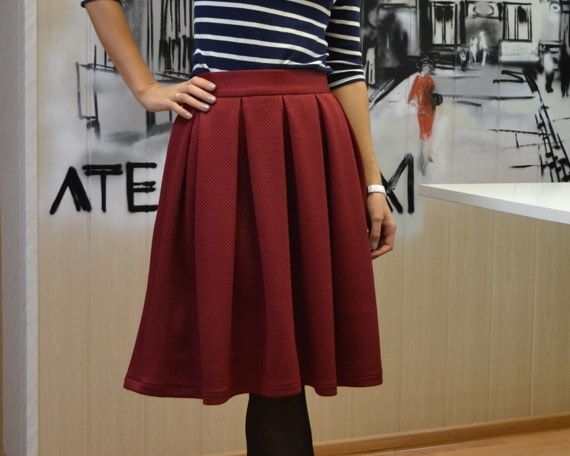
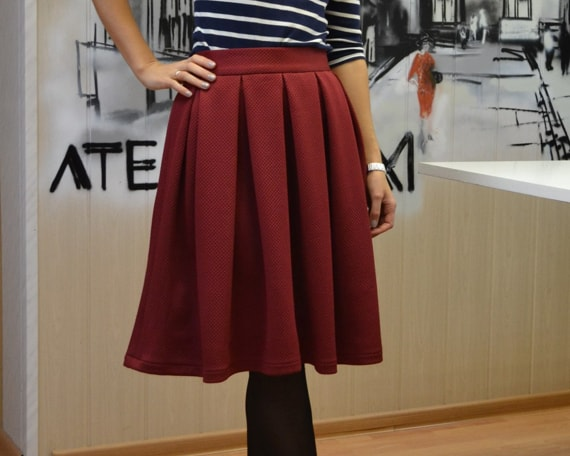
Заменены фотки некоторых курсов, поправлен адрес, поправлена карта  в курсе

diff --git a/courses/course-one.html b/courses/course-one.html
@@ -49,15 +49,18 @@
 
 					<div class="header_contacts">
 						<ul>
-							<li><p class="header_small">Услуги ателье или запись на курсы:</p></li>
+							<li><p class="header_small_above">Услуги ателье или запись на курсы:</p></li>
 							<li><p class="phone">+7 (903) 692-79-71</p></li>
 							<li>atelierium@yandex.ru</li>
 						</ul>
 					</div>
 
 					<div class="header_adress">
-						<li><p class="header_small">Мы находимся:</p></li>
-						<li>в Ярославле на Некрасова 41/37, в&nbsp;офисе 345 («Североход», 3-й этаж)</li>
+						<ul>
+							<li><p class="adress">Ярославль, Некрасова 41/37, офис 304</p></li>
+							<li><p class="header_small_under">(БЦ «Североход», офисное здание № 2,</p></li>
+							<li><p class="header_small_under">вход со стороны ул. Некрасова 3-й этаж)</p></li>
+						</ul>
 					</div>
 				</div>
 			</div>
@@ -124,7 +127,7 @@
 							</p>
 
 							<p>
-								На данном курсе учащиеся получат базовые навыки швейного и конструкторского  мастерства. За время обучения вы научитесь правильно снимать мерки с фигуры, правильно выбирать прибавки на свободу при конструировании изделий, изучите основные технологические узлы при обработке изделий. По итогу курса у Вас будут три сшитые вами изделия — юбка, платье и блуза.
+								На данном курсе учащиеся получат базовые навыки швейного и конструкторского  мастерства. За время обучения вы научитесь правильно снимать мерки с фигуры, правильно выбирать прибавки на свободу при конструировании изделий, изучите основные технологические узлы при обработке изделий. По итогу курса у вас будут три сшитые вами изделия — юбка, платье и блуза.
 							</p>
 
 							<table class="table-course">
@@ -165,7 +168,7 @@
 							<!-- Карта -->
 
 							<p>
-								Занятия по этому курсу проходят по адресу: улица Некрасова 41/37, офис 345 (бизнес-центр «Североход», 3-й этаж)
+								Занятия по этому курсу проходят по адресу: улица Некрасова, 41/37, офис 304 (БЦ «Североход», офисное здание № 2, вход со стороны ул. Некрасова 3-й этаж)
 							</p><br>
 
 							<div id="map">

diff --git a/courses/course-five.html b/courses/course-five.html
@@ -49,15 +49,18 @@
 
 					<div class="header_contacts">
 						<ul>
-							<li><p class="header_small">Услуги ателье или запись на курсы:</p></li>
+							<li><p class="header_small_above">Услуги ателье или запись на курсы:</p></li>
 							<li><p class="phone">+7 (903) 692-79-71</p></li>
 							<li>atelierium@yandex.ru</li>
 						</ul>
 					</div>
 
 					<div class="header_adress">
-						<li><p class="header_small">Мы находимся:</p></li>
-						<li>в Ярославле на Некрасова 41/37, в&nbsp;офисе 345 («Североход», 3-й этаж)</li>
+						<ul>
+							<li><p class="adress">Ярославль, Некрасова 41/37, офис 304</p></li>
+							<li><p class="header_small_under">(БЦ «Североход», офисное здание № 2,</p></li>
+							<li><p class="header_small_under">вход со стороны ул. Некрасова 3-й этаж)</p></li>
+						</ul>
 					</div>
 				</div>
 			</div>
@@ -146,11 +149,11 @@
 							<!-- Карта -->
 
 							<p>
-								Занятия по этому курсу проходят по адресу: улица Некрасова 41/37, офис 345 (бизнес-центр «Североход», 3-й этаж)
+								Занятия по этому курсу проходят по адресу: улица Майорова, 8А, 1 этаж
 							</p><br>
 
 							<div id="map">
-								<script type="text/javascript" charset="utf-8" src="https://api-maps.yandex.ru/services/constructor/1.0/js/?sid=HYCU-XZVNMVQuzG_V8xKoF1DiBNvdAYI&width=550&height=430&lang=ru_RU&sourceType=constructor">
+								<script type="text/javascript" charset="utf-8" src="https://api-maps.yandex.ru/services/constructor/1.0/js/?sid=zr-VuhEAn43rfLt3QUoNxF1zc-37c48L&width=550&height=430&lang=ru_RU&sourceType=constructor">
 								</script>
 							</div>
 						</div>

diff --git a/courses/course-six.html b/courses/course-six.html
@@ -49,15 +49,18 @@
 
 					<div class="header_contacts">
 						<ul>
-							<li><p class="header_small">Услуги ателье или запись на курсы:</p></li>
+							<li><p class="header_small_above">Услуги ателье или запись на курсы:</p></li>
 							<li><p class="phone">+7 (903) 692-79-71</p></li>
 							<li>atelierium@yandex.ru</li>
 						</ul>
 					</div>
 
 					<div class="header_adress">
-						<li><p class="header_small">Мы находимся:</p></li>
-						<li>в Ярославле на Некрасова 41/37, в&nbsp;офисе 345 («Североход», 3-й этаж)</li>
+						<ul>
+							<li><p class="adress">Ярославль, Некрасова 41/37, офис 304</p></li>
+							<li><p class="header_small_under">(БЦ «Североход», офисное здание № 2,</p></li>
+							<li><p class="header_small_under">вход со стороны ул. Некрасова 3-й этаж)</p></li>
+						</ul>
 					</div>
 				</div>
 			</div>
@@ -148,11 +151,11 @@
 							<!-- Карта -->
 
 							<p>
-								Занятия по этому курсу проходят по адресу: улица Некрасова 41/37, офис 345 (бизнес-центр «Североход», 3-й этаж)
+								Занятия по этому курсу проходят по адресу: улица Майорова, 8А, 1 этаж
 							</p><br>
 
 							<div id="map">
-								<script type="text/javascript" charset="utf-8" src="https://api-maps.yandex.ru/services/constructor/1.0/js/?sid=HYCU-XZVNMVQuzG_V8xKoF1DiBNvdAYI&width=550&height=430&lang=ru_RU&sourceType=constructor">
+								<script type="text/javascript" charset="utf-8" src="https://api-maps.yandex.ru/services/constructor/1.0/js/?sid=zr-VuhEAn43rfLt3QUoNxF1zc-37c48L&width=550&height=430&lang=ru_RU&sourceType=constructor">
 								</script>
 							</div>
 						</div>

diff --git a/index.html b/index.html
@@ -48,20 +48,28 @@
 				<div class="thirty-padding">
 
 					<div class="header_logo">
-						<a href="index.html"><img class="logo" src="img/logo_two@2x.png" width="243px" height="76px"></a>
+						<a href="index.html"><img class="logo" src="img/logo_two@2x.png" width="243px"></a>
 					</div>
 
 					<div class="header_contacts">
 						<ul>
-							<li><p class="header_small">Услуги ателье или запись на курсы:</p></li>
+							<li><p class="header_small_above">Услуги ателье или запись на курсы:</p></li>
 							<li><p class="phone">+7 (903) 692-79-71</p></li>
 							<li>atelierium@yandex.ru</li>
 						</ul>
 					</div>
 
-					<div class="header_adress">
+					<!-- <div class="header_adress">
 						<li><p class="header_small">Мы находимся:</p></li>
 						<li>в Ярославле на Некрасова 41/37, в&nbsp;офисе 345 («Североход», 3-й этаж)</li>
+					</div> -->
+
+					<div class="header_adress">
+						<ul>
+							<li><p class="adress">Ярославль, Некрасова 41/37, офис 304</p></li>
+							<li><p class="header_small_under">(БЦ «Североход», офисное здание № 2,</p></li>
+							<li><p class="header_small_under">вход со стороны ул. Некрасова 3-й этаж)</p></li>
+						</ul>
 					</div>
 
 				</div>
@@ -303,7 +311,7 @@
 										<a href="courses/course-seven.html"><img src="img/picture-course-7@2x.jpg" alt="Курс 7" width="285px"></a>
 										<div class="height-third-line">
 											<div class="course-header">
-												<a class="black" href="courses/course-four.html">
+												<a class="black" href="courses/course-seven.html">
 													Fashion-рисунок
 												</a>
 												<div class="course-about"><p>С навыками шитья</p></div>

diff --git a/courses/course-four.html b/courses/course-four.html
@@ -49,15 +49,18 @@
 
 					<div class="header_contacts">
 						<ul>
-							<li><p class="header_small">Услуги ателье или запись на курсы:</p></li>
+							<li><p class="header_small_above">Услуги ателье или запись на курсы:</p></li>
 							<li><p class="phone">+7 (903) 692-79-71</p></li>
 							<li>atelierium@yandex.ru</li>
 						</ul>
 					</div>
 
 					<div class="header_adress">
-						<li><p class="header_small">Мы находимся:</p></li>
-						<li>в Ярославле на Некрасова 41/37, в&nbsp;офисе 345 («Североход», 3-й этаж)</li>
+						<ul>
+							<li><p class="adress">Ярославль, Некрасова 41/37, офис 304</p></li>
+							<li><p class="header_small_under">(БЦ «Североход», офисное здание № 2,</p></li>
+							<li><p class="header_small_under">вход со стороны ул. Некрасова 3-й этаж)</p></li>
+						</ul>
 					</div>
 				</div>
 			</div>
@@ -146,7 +149,7 @@
 							<!-- Карта -->
 
 							<p>
-								Занятия по этому курсу проходят по адресу: улица Некрасова 41/37, офис 345 (бизнес-центр «Североход», 3-й этаж)
+								Занятия по этому курсу проходят по адресу: улица Некрасова, 41/37, офис 304 (БЦ «Североход», офисное здание № 2, вход со стороны ул. Некрасова 3-й этаж)
 							</p><br>
 
 							<div id="map">

diff --git a/courses/course-seven.html b/courses/course-seven.html
@@ -49,15 +49,18 @@
 
 					<div class="header_contacts">
 						<ul>
-							<li><p class="header_small">Услуги ателье или запись на курсы:</p></li>
+							<li><p class="header_small_above">Услуги ателье или запись на курсы:</p></li>
 							<li><p class="phone">+7 (903) 692-79-71</p></li>
 							<li>atelierium@yandex.ru</li>
 						</ul>
 					</div>
 
 					<div class="header_adress">
-						<li><p class="header_small">Мы находимся:</p></li>
-						<li>в Ярославле на Некрасова 41/37, в&nbsp;офисе 345 («Североход», 3-й этаж)</li>
+						<ul>
+							<li><p class="adress">Ярославль, Некрасова 41/37, офис 304</p></li>
+							<li><p class="header_small_under">(БЦ «Североход», офисное здание № 2,</p></li>
+							<li><p class="header_small_under">вход со стороны ул. Некрасова 3-й этаж)</p></li>
+						</ul>
 					</div>
 				</div>
 			</div>
@@ -149,7 +152,7 @@
 							<!-- Карта -->
 
 							<p>
-								Занятия по этому курсу проходят по адресу: улица Некрасова 41/37, офис 345 (бизнес-центр «Североход», 3-й этаж)
+								Занятия по этому курсу проходят по адресу: улица Некрасова, 41/37, офис 304 (БЦ «Североход», офисное здание № 2, вход со стороны ул. Некрасова 3-й этаж)
 							</p><br>
 
 							<div id="map">

diff --git a/courses/course-three.html b/courses/course-three.html
@@ -49,15 +49,18 @@
 
 					<div class="header_contacts">
 						<ul>
-							<li><p class="header_small">Услуги ателье или запись на курсы:</p></li>
+							<li><p class="header_small_above">Услуги ателье или запись на курсы:</p></li>
 							<li><p class="phone">+7 (903) 692-79-71</p></li>
 							<li>atelierium@yandex.ru</li>
 						</ul>
 					</div>
 
 					<div class="header_adress">
-						<li><p class="header_small">Мы находимся:</p></li>
-						<li>в Ярославле на Некрасова 41/37, в&nbsp;офисе 345 («Североход», 3-й этаж)</li>
+						<ul>
+							<li><p class="adress">Ярославль, Некрасова 41/37, офис 304</p></li>
+							<li><p class="header_small_under">(БЦ «Североход», офисное здание № 2,</p></li>
+							<li><p class="header_small_under">вход со стороны ул. Некрасова 3-й этаж)</p></li>
+						</ul>
 					</div>
 				</div>
 			</div>
@@ -147,7 +150,7 @@
 							<!-- Карта -->
 
 							<p>
-								Занятия по этому курсу проходят по адресу: улица Некрасова 41/37, офис 345 (бизнес-центр «Североход», 3-й этаж)
+								Занятия по этому курсу проходят по адресу: улица Некрасова, 41/37, офис 304 (БЦ «Североход», офисное здание № 2, вход со стороны ул. Некрасова 3-й этаж)
 							</p><br>
 
 							<div id="map">

diff --git a/courses/course-two.html b/courses/course-two.html
@@ -49,15 +49,18 @@
 
 					<div class="header_contacts">
 						<ul>
-							<li><p class="header_small">Услуги ателье или запись на курсы:</p></li>
+							<li><p class="header_small_above">Услуги ателье или запись на курсы:</p></li>
 							<li><p class="phone">+7 (903) 692-79-71</p></li>
 							<li>atelierium@yandex.ru</li>
 						</ul>
 					</div>
 
 					<div class="header_adress">
-						<li><p class="header_small">Мы находимся:</p></li>
-						<li>в Ярославле на Некрасова 41/37, в&nbsp;офисе 345 («Североход», 3-й этаж)</li>
+						<ul>
+							<li><p class="adress">Ярославль, Некрасова 41/37, офис 304</p></li>
+							<li><p class="header_small_under">(БЦ «Североход», офисное здание № 2,</p></li>
+							<li><p class="header_small_under">вход со стороны ул. Некрасова 3-й этаж)</p></li>
+						</ul>
 					</div>
 				</div>
 			</div>
@@ -148,7 +151,7 @@
 							<!-- Карта -->
 
 							<p>
-								Занятия по этому курсу проходят по адресу: улица Некрасова 41/37, офис 345 (бизнес-центр «Североход», 3-й этаж)
+								Занятия по этому курсу проходят по адресу: улица Некрасова, 41/37, офис 304 (БЦ «Североход», офисное здание № 2, вход со стороны ул. Некрасова 3-й этаж)
 							</p><br>
 
 							<div id="map">

diff --git a/news/news-one.html b/news/news-one.html
@@ -49,15 +49,18 @@
 
 					<div class="header_contacts">
 						<ul>
-							<li><p class="header_small">Услуги ателье или запись на курсы:</p></li>
+							<li><p class="header_small_above">Услуги ателье или запись на курсы:</p></li>
 							<li><p class="phone">+7 (903) 692-79-71</p></li>
 							<li>atelierium@yandex.ru</li>
 						</ul>
 					</div>
 
 					<div class="header_adress">
-						<li><p class="header_small">Мы находимся:</p></li>
-						<li>в Ярославле на Некрасова 41/37, в&nbsp;офисе 345 («Североход», 3-й этаж)</li>
+						<ul>
+							<li><p class="adress">Ярославль, Некрасова 41/37, офис 304</p></li>
+							<li><p class="header_small_under">(БЦ «Североход», офисное здание № 2,</p></li>
+							<li><p class="header_small_under">вход со стороны ул. Некрасова 3-й этаж)</p></li>
+						</ul>
 					</div>
 				</div>
 			</div>

diff --git a/news/news-three.html b/news/news-three.html
@@ -49,15 +49,18 @@
 
 					<div class="header_contacts">
 						<ul>
-							<li><p class="header_small">Услуги ателье или запись на курсы:</p></li>
+							<li><p class="header_small_above">Услуги ателье или запись на курсы:</p></li>
 							<li><p class="phone">+7 (903) 692-79-71</p></li>
 							<li>atelierium@yandex.ru</li>
 						</ul>
 					</div>
 
 					<div class="header_adress">
-						<li><p class="header_small">Мы находимся:</p></li>
-						<li>в Ярославле на Некрасова 41/37, в&nbsp;офисе 345 («Североход», 3-й этаж)</li>
+						<ul>
+							<li><p class="adress">Ярославль, Некрасова 41/37, офис 304</p></li>
+							<li><p class="header_small_under">(БЦ «Североход», офисное здание № 2,</p></li>
+							<li><p class="header_small_under">вход со стороны ул. Некрасова 3-й этаж)</p></li>
+						</ul>
 					</div>
 				</div>
 			</div>

diff --git a/news/news-two.html b/news/news-two.html
@@ -49,15 +49,18 @@
 
 					<div class="header_contacts">
 						<ul>
-							<li><p class="header_small">Услуги ателье или запись на курсы:</p></li>
+							<li><p class="header_small_above">Услуги ателье или запись на курсы:</p></li>
 							<li><p class="phone">+7 (903) 692-79-71</p></li>
 							<li>atelierium@yandex.ru</li>
 						</ul>
 					</div>
 
 					<div class="header_adress">
-						<li><p class="header_small">Мы находимся:</p></li>
-						<li>в Ярославле на Некрасова 41/37, в&nbsp;офисе 345 («Североход», 3-й этаж)</li>
+						<ul>
+							<li><p class="adress">Ярославль, Некрасова 41/37, офис 304</p></li>
+							<li><p class="header_small_under">(БЦ «Североход», офисное здание № 2,</p></li>
+							<li><p class="header_small_under">вход со стороны ул. Некрасова 3-й этаж)</p></li>
+						</ul>
 					</div>
 				</div>
 			</div>

diff --git a/shedule.html b/shedule.html
@@ -41,15 +41,18 @@
 
 					<div class="header_contacts">
 						<ul>
-							<li><p class="header_small">Услуги ателье или запись на курсы:</p></li>
+							<li><p class="header_small_above">Услуги ателье или запись на курсы:</p></li>
 							<li><p class="phone">+7 (903) 692-79-71</p></li>
 							<li>atelierium@yandex.ru</li>
 						</ul>
 					</div>
 
 					<div class="header_adress">
-						<li><p class="header_small">Мы находимся:</p></li>
-						<li>в Ярославле на Некрасова 41/37, в&nbsp;офисе 345 («Североход», 3-й этаж)</li>
+						<ul>
+							<li><p class="adress">Ярославль, Некрасова 41/37, офис 304</p></li>
+							<li><p class="header_small_under">(БЦ «Североход», офисное здание № 2,</p></li>
+							<li><p class="header_small_under">вход со стороны ул. Некрасова 3-й этаж)</p></li>
+						</ul>
 					</div>
 
 				</div>
